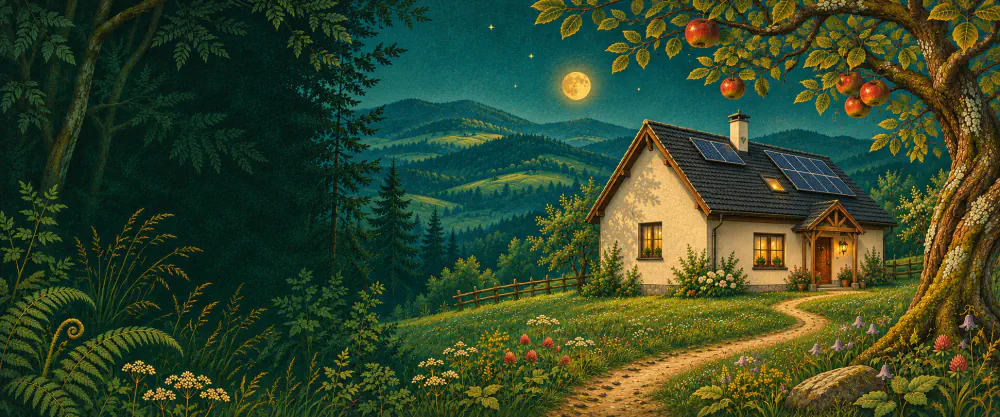
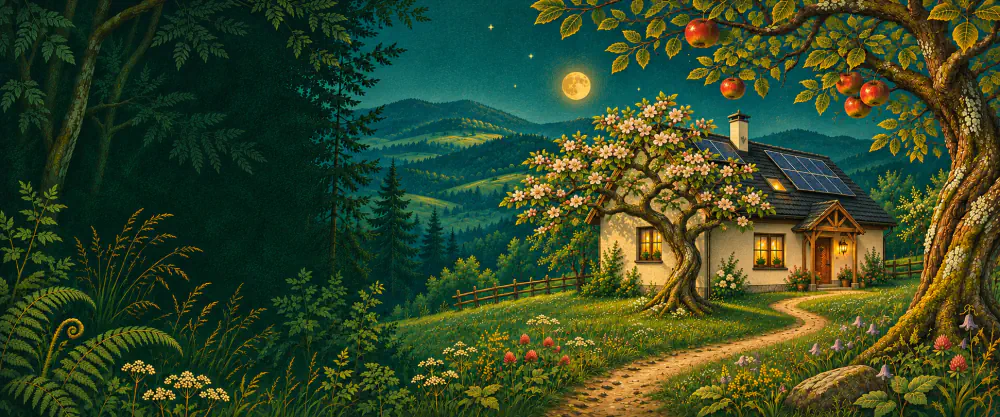
Add apple tree beside the nearest house corner

diff --git a/versions/2026-11-04-orchard-tales/index.html b/versions/2026-11-04-orchard-tales/index.html
@@ -118,7 +118,7 @@
           width="1942"
           height="809"
           fetchpriority="high"
-          alt="Jasny dom widziany od narożnika, z ciemnym dachem i światłem w oknach. W tle górskie grzbiety i księżyc."
+          alt="Kwitnąca jabłoń przy najbliższym narożniku jasnego domu. W tle górskie grzbiety i księżyc."
         />
       </picture>
       <header class="masthead shell">

diff --git a/.repota/done/add-apple-tree-at-house-corner.md b/.repota/done/add-apple-tree-at-house-corner.md
@@ -1,0 +1,7 @@
+# Add an apple tree at the house corner
+
+Piotr requested an apple tree immediately beside the nearest corner of the house in the cover of `versions/2026-11-04-orchard-tales/`, matching the tree in the opening chapter. Use built-in ImageGen for a localized edit, retaining the oblique house view and mountain panorama. Export all three responsive cover sizes and inspect the phone crop.
+
+## Done
+
+Codex added a flowering apple tree beside the nearest house corner using the opening chapter as reference. Checked all three exported dimensions and visually inspected the desktop image and phone crop. Updated the cover alt text.
